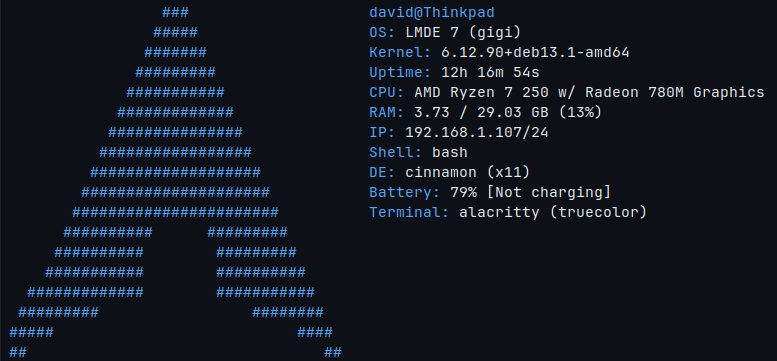
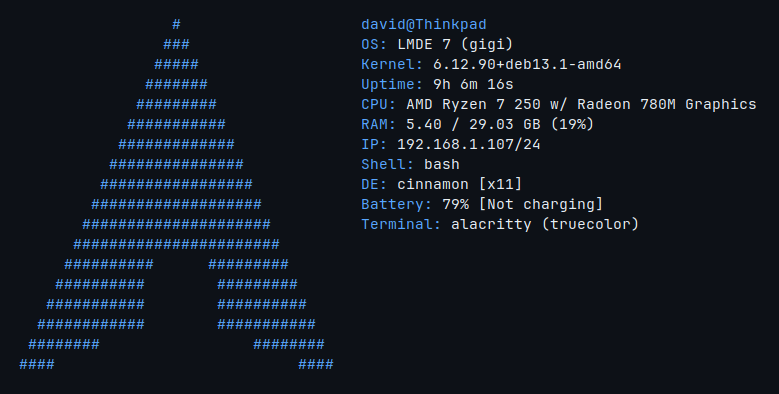
Updated example output image in readme

Changed region(s): [[0.0, 0.0, 0.4324, 1.0], [0.4633, 0.0, 0.9884, 0.6094]]

diff --git a/internal/output/ascii.go b/internal/output/ascii.go
@@ -18,7 +18,7 @@ func LoadASCII(fs embed.FS, distroID, asciicolor, asciisize, customascii string)
 			scanner = bufio.NewScanner(f)
 			closer = func() { f.Close() }
 		} else {
-			fmt.Printf("Error: Customascii path '%s' doesn't seem to exist.\n", customascii)
+			fmt.Printf("Error: Custom ascii art path '%s' doesn't seem to exist.\n", customascii)
 		}
 	}
 

diff --git a/internal/output/output.go b/internal/output/output.go
@@ -48,7 +48,6 @@ func PrintOutput(asciiLines, infoLines []string, asciiColor string) {
 	width := getMaxWidth(asciiLines)
 
 	total := max(len(asciiLines), len(infoLines))
-
 	for i := 0; i < total; i++ {
 		var left, right string
 